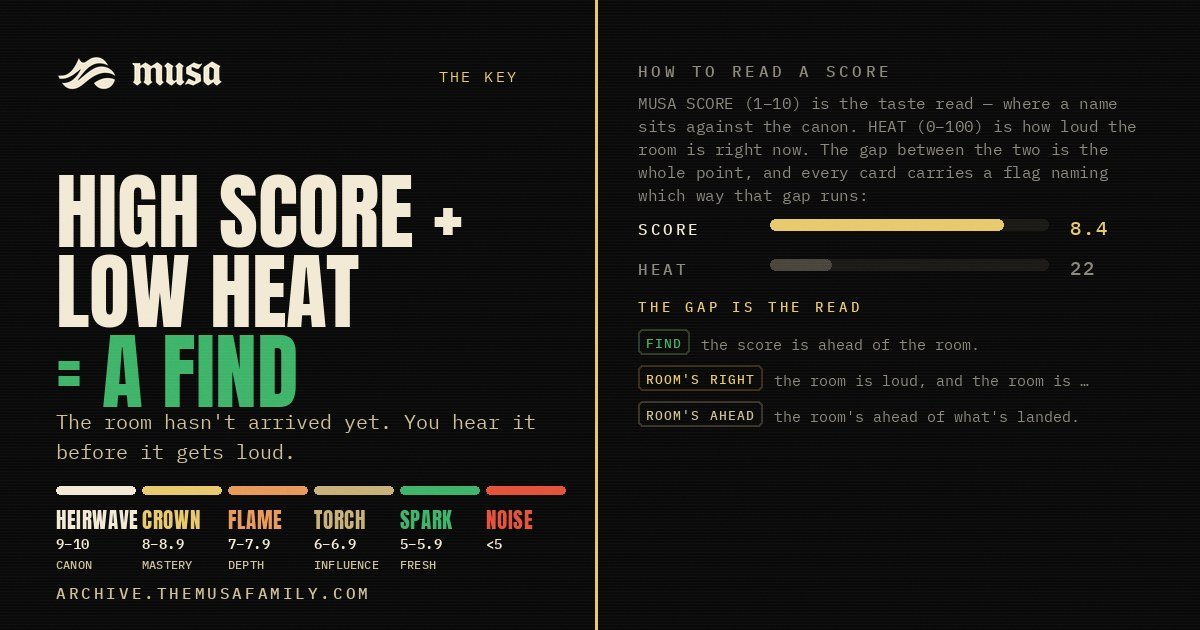
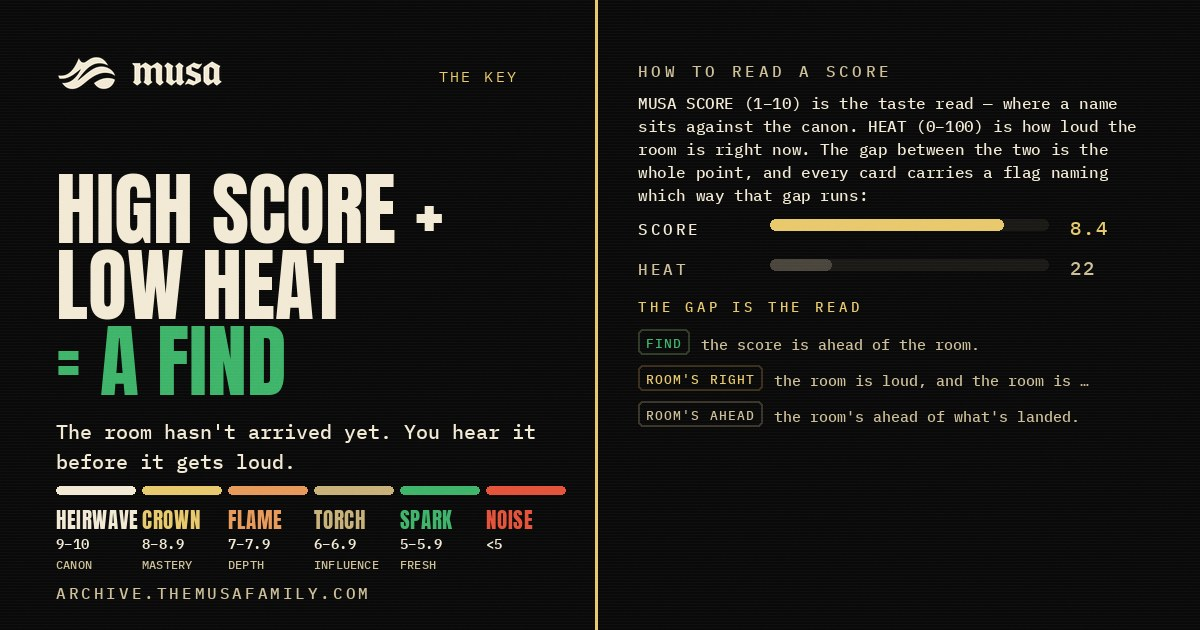
Key card: air under the payoff line, nothing left in mid-grey
Two problems. The green payoff line was sitting directly on the paragraph
under it, and the definitions block — the part that actually teaches the
score — was set in MUT, the dimmest text colour on the card.

- 40px of clear air under = A FIND on the square, matching proportion on
  the landscape twin. Reclaimed from leading elsewhere, not from content.
- MUSA SCORE / HEAT definitions: MUT to full FG, mono regular to medium,
  22 to 23px. It is the densest block on the card and was the hardest to
  read; now it is among the brightest.
- Same lift on the flag glosses (SAND medium), the NOISE/BENCHMARK line
  (FG medium), the HOW TO READ A SCORE eyebrow, and the HEAT row label and
  value inside the gap panel.
- Hook paragraph to FG medium.

Nothing on the card now sits below SAND.

diff --git a/build/cards.py b/build/cards.py
@@ -413,9 +413,9 @@ def _gapdemo(d, x, y, boxw, step=62, labfs=22, valfs=26, barh=16):
     fl = font(MONOM, labfs); fv = font(MONOM, valfs)
     barx, barw = x + 132, boxw - 132 - 96
     for i, (lab, val, pct, col) in enumerate(
-            [("SCORE", "8.4", 84, AMBER), ("HEAT", "22", 22, MUT)]):
+            [("SCORE", "8.4", 84, AMBER), ("HEAT", "22", 22, SAND)]):
         yy = y + i * step
-        tracked(d, (x, yy + 3), lab, fl, MUT if i else FG, 3.0)
+        tracked(d, (x, yy + 3), lab, fl, SAND if i else FG, 3.0)
         d.rounded_rectangle([barx, yy + 4, barx + barw, yy + 4 + barh], radius=8, fill="#1c1a16")
         fw = int(barw * pct / 100)
         d.rounded_rectangle([barx, yy + 4, barx + fw, yy + 4 + barh], radius=8,
@@ -455,7 +455,7 @@ def keycard(out, W=1080, H=1350):
     d.line([(M, M + 74), (W - M, M + 74)], fill=AMBER, width=3)
 
     y = M + 108
-    tracked(d, (M, y), "HOW TO READ A SCORE", font(MONOM, 20), MUT, 4.6)
+    tracked(d, (M, y), "HOW TO READ A SCORE", font(MONOM, 20), SAND, 4.6)
 
     # Hero. Anton, tight leading, the payoff line in green — the same green as
     # the FIND chip further down, so the eye ties the two together unprompted.
@@ -463,39 +463,40 @@ def keycard(out, W=1080, H=1350):
     fh = font(ANTON, 102)
     for line, col in [("HIGH SCORE +", FG), ("LOW HEAT", FG), ("= A FIND", GREEN)]:
         d.text((M, y), line, font=fh, fill=col)
-        y += 86
+        y += 83
 
-    y += 24
-    fb = font(MONO, 23)
+    # The payoff line was sitting on top of this paragraph. It needs room.
+    y += 70
+    fb = font(MONOM, 22)
     for ln in wrap(d, KEY_HOOK, fb, boxw, 3):
-        d.text((M, y), ln, font=fb, fill=SAND); y += 32
+        d.text((M, y), ln, font=fb, fill=FG); y += 31
 
     # The gap drawn, so it reads without the paragraph.
     y += 26
     d.rounded_rectangle([M, y, W - M, y + 132], radius=10, outline=LINE, width=2)
     yy = _gapdemo(d, M + 30, y + 18, boxw - 60, step=46, labfs=19, valfs=23, barh=13)
     tracked(d, (M + 30, yy + 2), "THE GAP IS THE READ", font(MONOM, 18), AMBER, 4.0)
-    y += 132 + 22
+    y += 132 + 18
 
     d.line([(M, y), (W - M, y)], fill=LINE, width=1)
     y += 22
 
-    fp = font(MONO, 22)
+    fp = font(MONOM, 23)
     for ln in wrap(d, KEY_PROSE, fp, boxw, 4):
-        d.text((M, y), ln, font=fp, fill=MUT); y += 31
+        d.text((M, y), ln, font=fp, fill=FG); y += 32
 
     # The three calls, so a stranger can read any card in the feed.
-    y += 16
-    fg_ = font(MONO, 22)
+    y += 18
+    fg_ = font(MONOM, 22)
     for lab, col, bor, gloss in KEY_FLAGS:
         endx = chip(d, M, y, lab, col, bor, fs=18, padx=11, pady=8, ls=1.6)
-        d.text((endx + 18, y + 7), gloss, font=fg_, fill=MUT)
-        y += 46
+        d.text((endx + 18, y + 7), gloss, font=fg_, fill=SAND)
+        y += 44
 
-    y += 8
-    ff2 = font(MONO, 22)
+    y += 10
+    ff2 = font(MONOM, 22)
     for ln in wrap(d, KEY_FLOOR, ff2, boxw, 2):
-        d.text((M, y), ln, font=ff2, fill=SAND); y += 31
+        d.text((M, y), ln, font=ff2, fill=FG); y += 30
 
     y = _tierladder(d, M, y + 14, boxw)
 
@@ -515,16 +516,16 @@ def keycard_og(out, W=1200, H=630):
     _key_masthead(im, d, split - 24, M, M, right="THE KEY", hh=34, wmh=27, fs=15)
 
     y = M + 92
-    fh = font(ANTON, 84)
+    fh = font(ANTON, 80)
     for line, col in [("HIGH SCORE +", FG), ("LOW HEAT", FG), ("= A FIND", GREEN)]:
         d.text((M, y), line, font=fh, fill=col)
-        y += 80
+        y += 76
 
-    fb = font(MONO, 20)
-    y += 20
+    fb = font(MONOM, 20)
+    y += 42
     for ln in wrap(d, "The room hasn't arrived yet. You hear it before it gets loud.",
                    fb, split - M - 40, 2):
-        d.text((M, y), ln, font=fb, fill=SAND); y += 30
+        d.text((M, y), ln, font=fb, fill=FG); y += 30
 
     _tierladder(d, M, H - M - 88, split - M - 30, nfs=21, rfs=14, dfs=12, gap=7, barh=8)
     tracked(d, (M, H - M + 8), "ARCHIVE.THEMUSAFAMILY.COM", font(MONOM, 16), SAND, 3.0)
@@ -532,22 +533,22 @@ def keycard_og(out, W=1200, H=630):
     # Right column: the definitions, the gap, then the three calls.
     rx = split + 42
     rw = W - rx - M
-    tracked(d, (rx, M + 4), "HOW TO READ A SCORE", font(MONOM, 16), MUT, 3.8)
+    tracked(d, (rx, M + 4), "HOW TO READ A SCORE", font(MONOM, 16), SAND, 3.8)
 
     y = M + 36
-    fp = font(MONO, 16)
+    fp = font(MONOM, 16)
     for ln in wrap(d, KEY_PROSE, fp, rw, 5):
-        d.text((rx, y), ln, font=fp, fill=MUT); y += 23
+        d.text((rx, y), ln, font=fp, fill=FG); y += 23
 
     y += 8
     yy = _gapdemo(d, rx, y, rw, step=40, labfs=16, valfs=19, barh=11)
     tracked(d, (rx, yy + 2), "THE GAP IS THE READ", font(MONOM, 14), AMBER, 3.4)
 
     y = yy + 34
-    fg_ = font(MONO, 15)
+    fg_ = font(MONOM, 15)
     for lab, col, bor, gloss in KEY_FLAGS:
         endx = chip(d, rx, y, lab, col, bor, fs=13, padx=8, pady=6, ls=1.3)
         for ln in wrap(d, gloss, fg_, rw - (endx - rx) - 12, 1):
-            d.text((endx + 12, y + 5), ln, font=fg_, fill=MUT)
+            d.text((endx + 12, y + 5), ln, font=fg_, fill=SAND)
         y += 36
     return _save(grain(scanlines(im, 6)), out)
